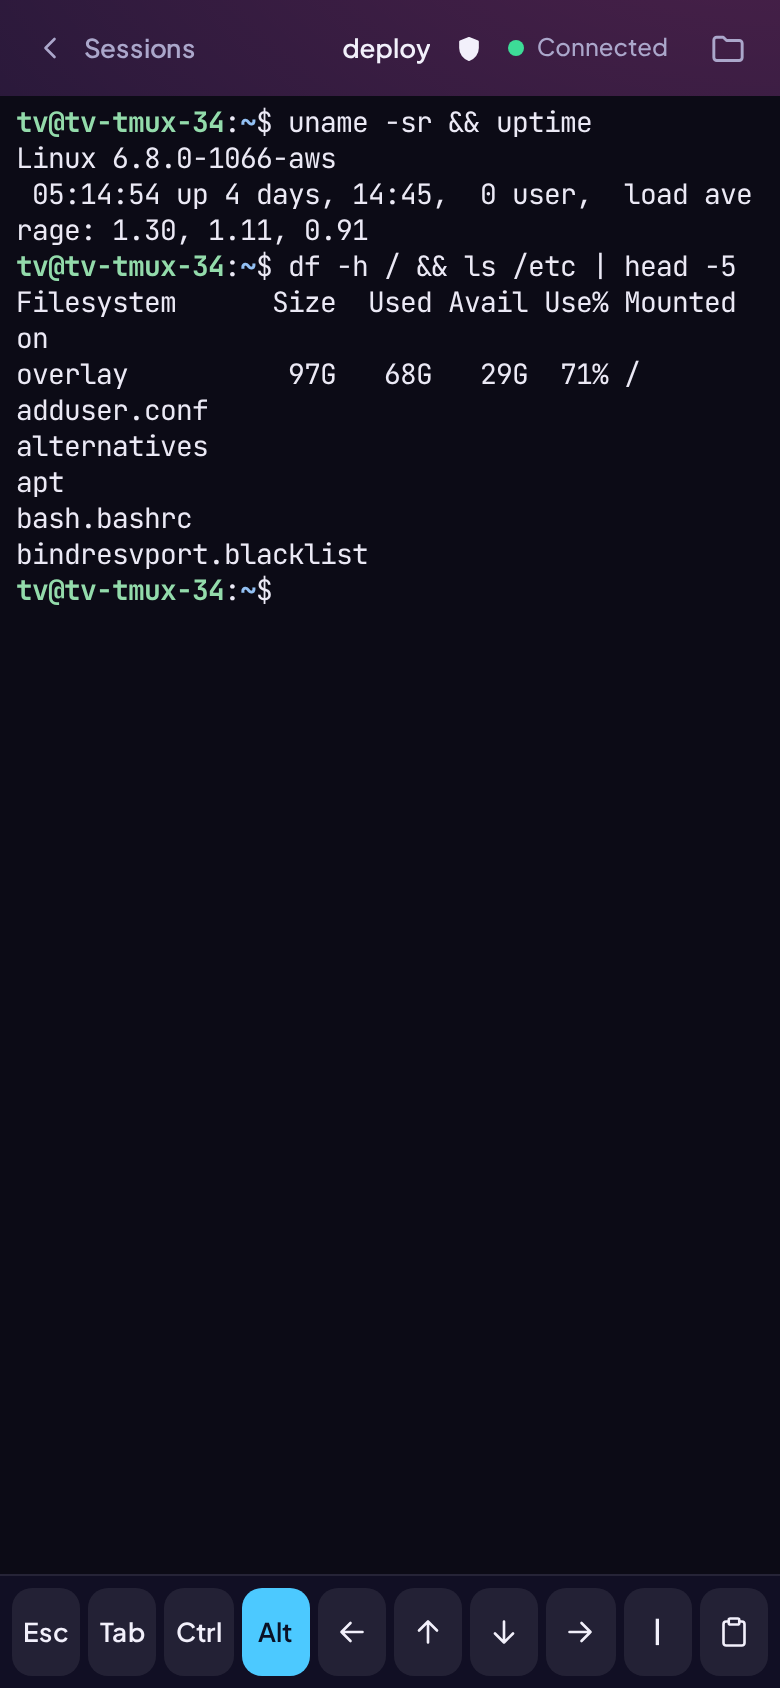
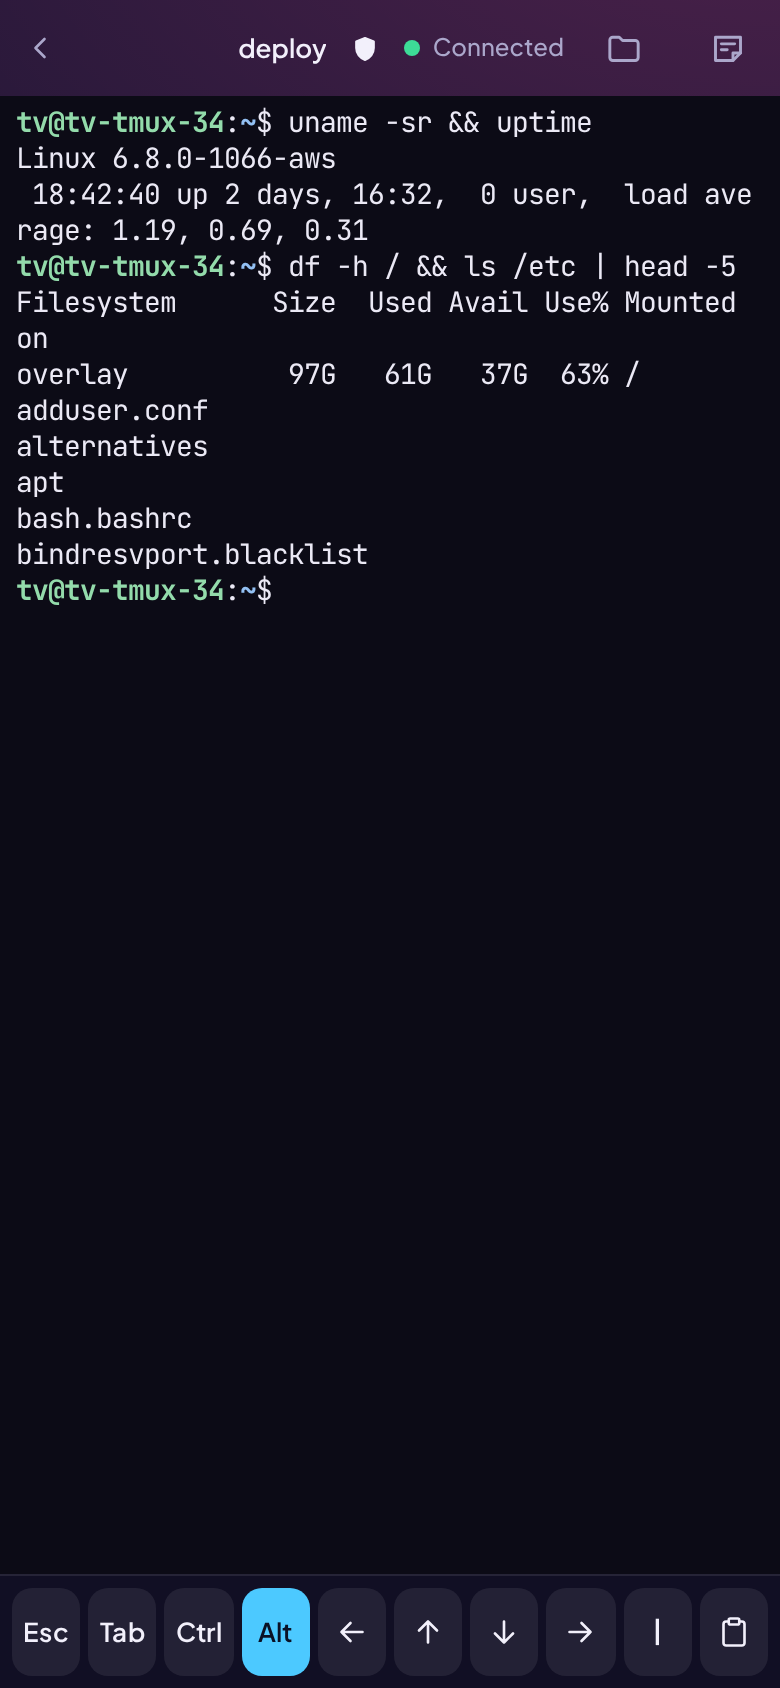
Screenshots: the session strip on the workspace and the phone header; checklist step 7 via Settings → Language

diff --git a/docs/release-checklist.md b/docs/release-checklist.md
@@ -55,8 +55,8 @@ on a throwaway install, or upgrade the trial install to it. Then:
    paste), rotate the screen, lock the phone for a minute and come back: the session is still
    there. Open the Files panel, upload a photo and download it back. Optional (D-50): the
    owner's go-ahead after using the candidate in a desktop browser is enough for a release.
-7. **Both locales.** Switch en ↔ pt-BR (the corner control on the sign-in page; account menu →
-   Language… once signed in); walk sign-in, the workspace, servers and admin pages in each; no
+7. **Both locales.** Switch en ↔ pt-BR (the corner control on the sign-in page; Settings →
+   Language once signed in); walk sign-in, the workspace, servers and admin pages in each; no
    untranslated or truncated text; the choice persists after signing out and in. The account
    menu shows the candidate's version.
 8. **Host-key mismatch.** Change the host key of a trusted test server (or point a server at
